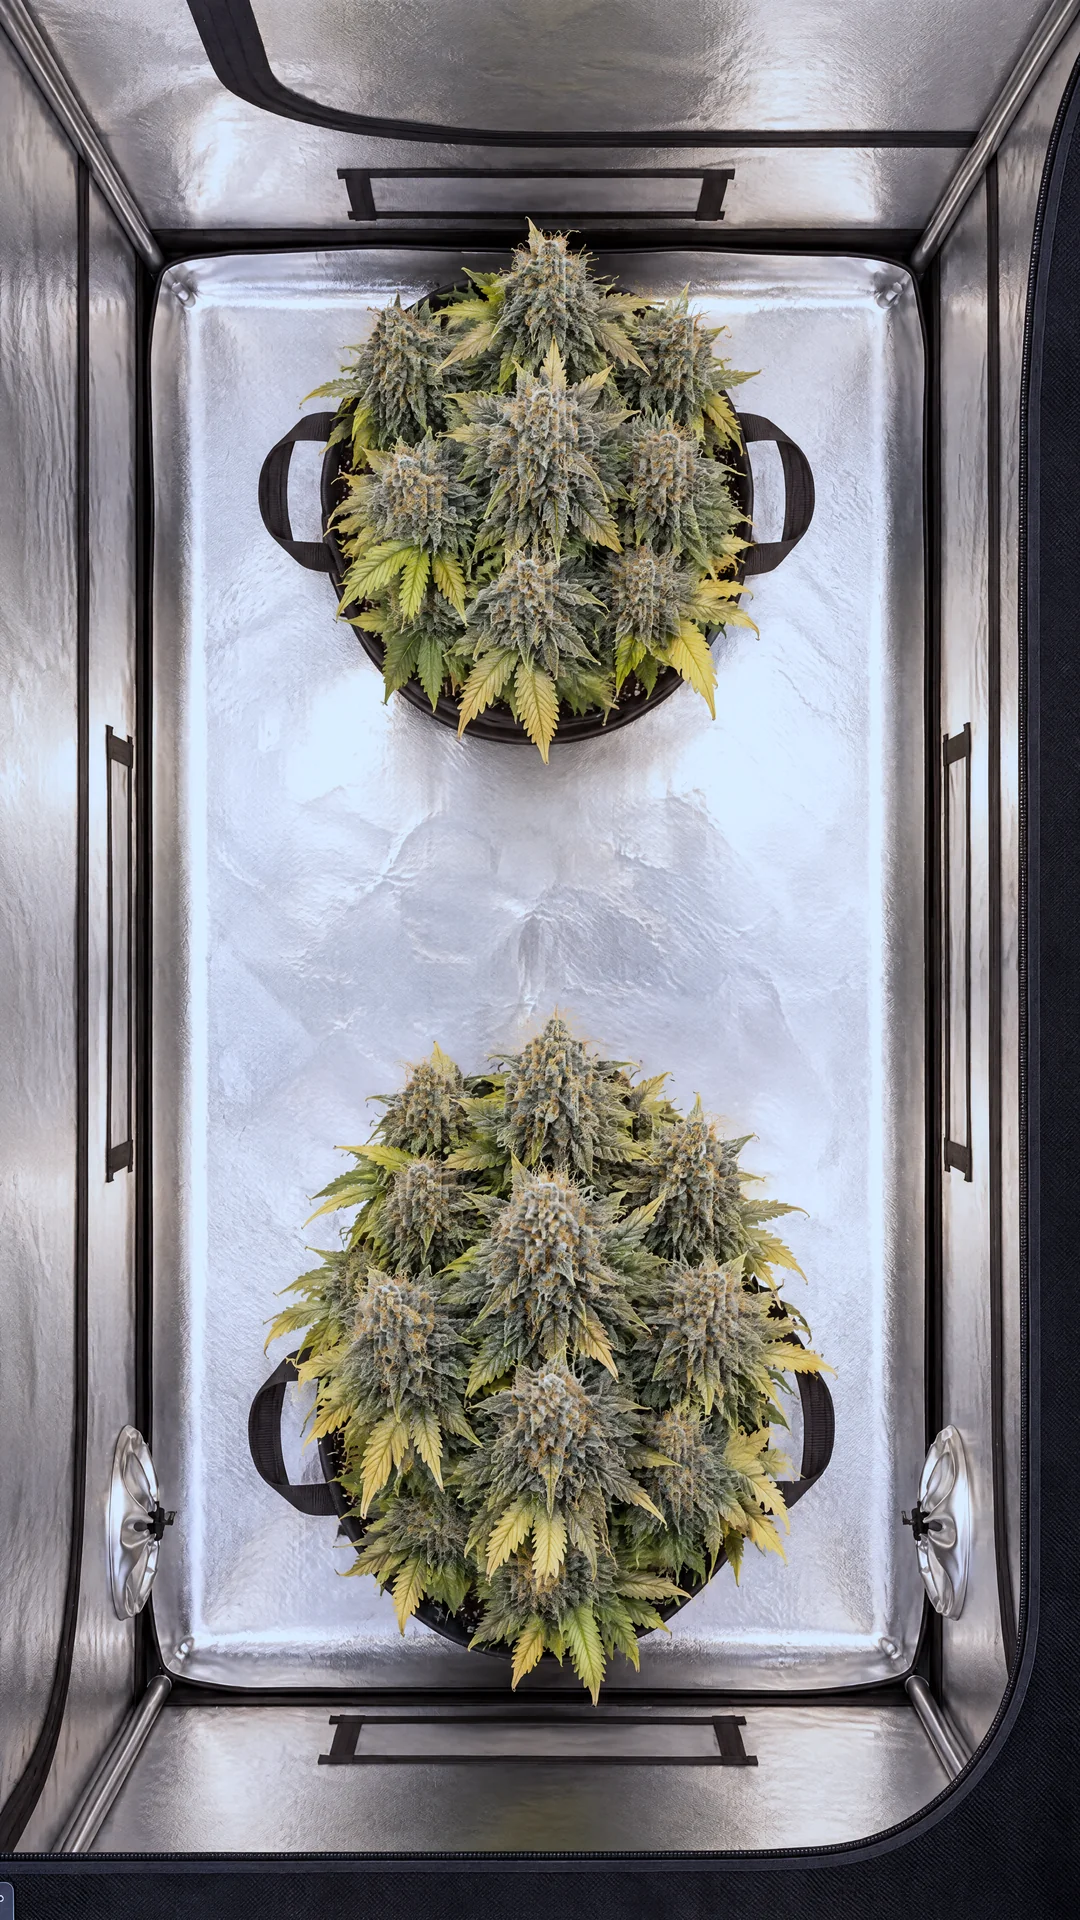
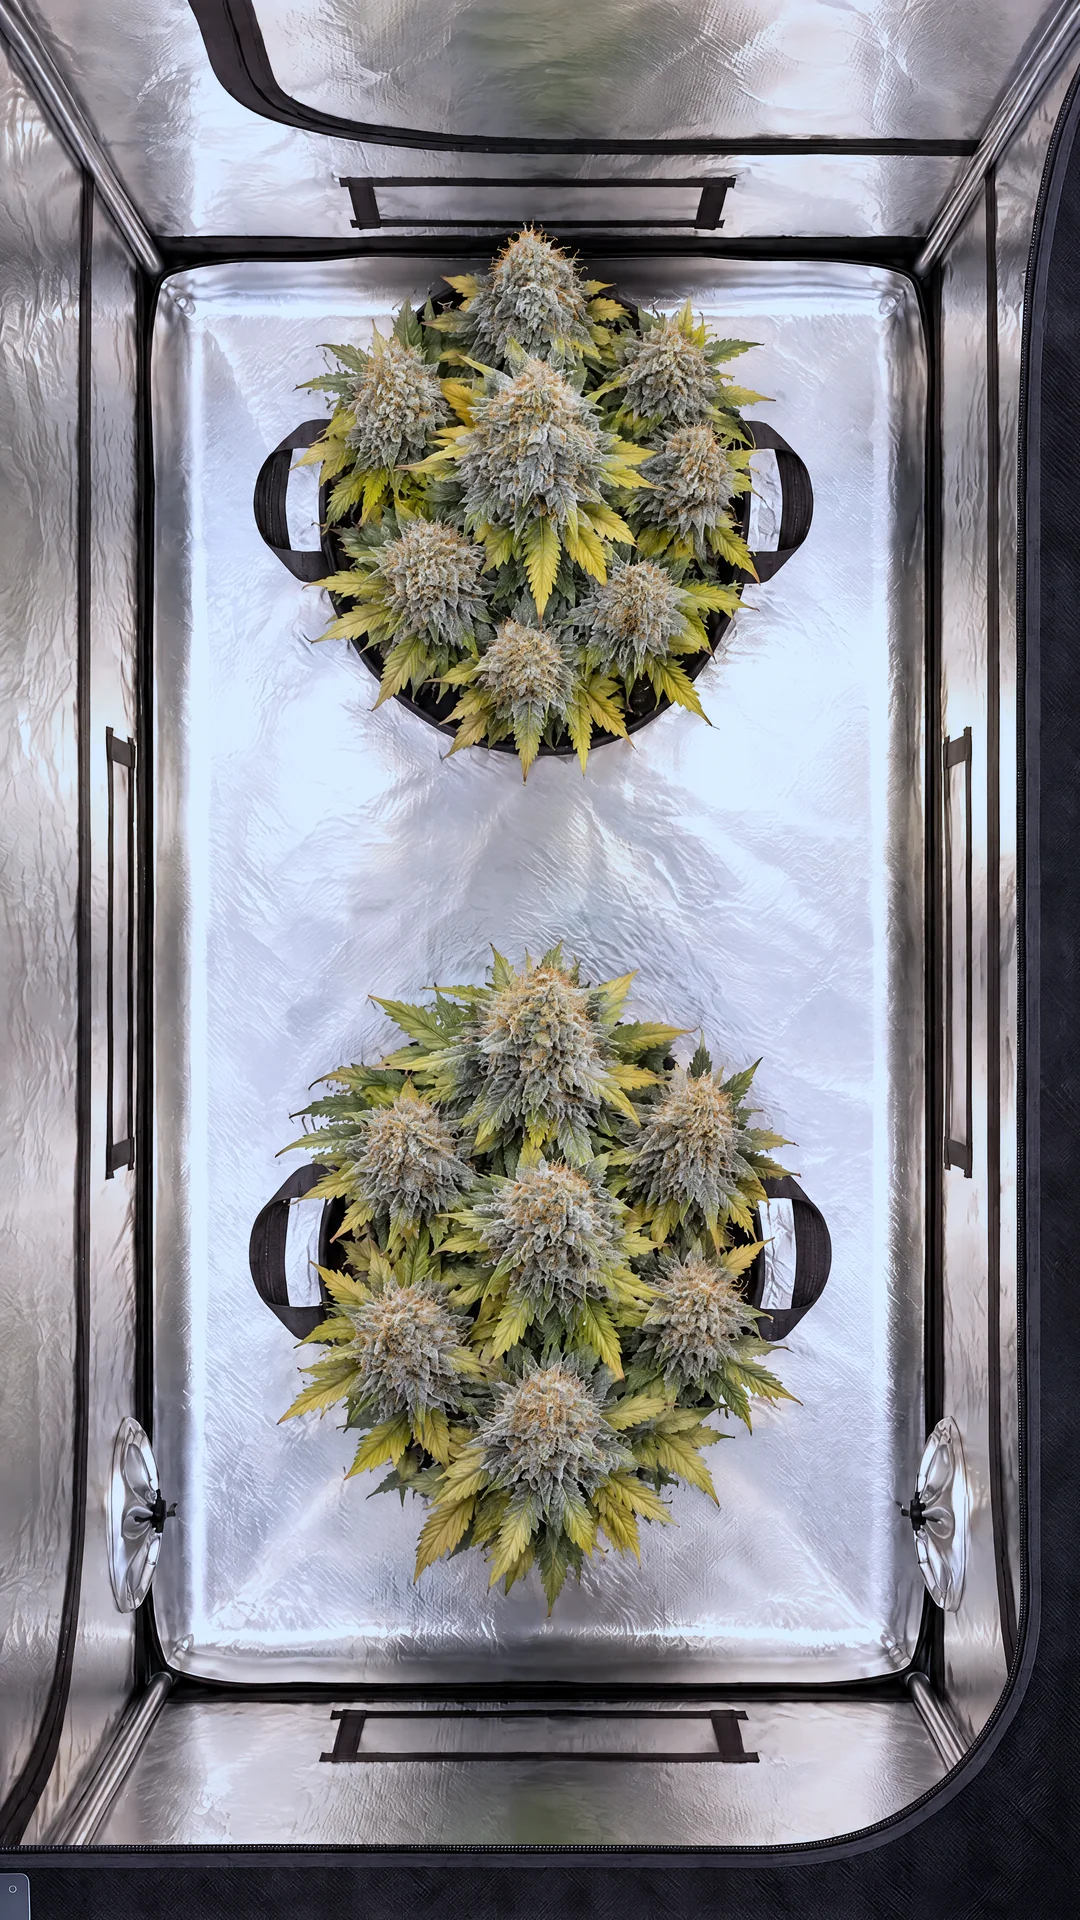
Carpa nítida: efectos de halo y vapor apagados y sin zoom de respiración; cosecha regenerada desde floración para que sean las mismas plantas

diff --git a/app/src/components/TentView.tsx b/app/src/components/TentView.tsx
@@ -199,7 +199,9 @@ export default function TentView() {
           <div className={`tinte ${scene === 'calor' ? 'tinte-calor' : 'tinte-frio'}`}
             style={{ opacity: view === 'front' && (scene === 'frio' || scene === 'calor') ? 1 : 0 }} />
           {/* vida en la carpa: vapor hacia el filtro, aspas del ventilador y halo de la LED */}
-          <SceneFx active={!preview && !intro && view === 'front'} fan={c.fan} exhaust={c.exhaust} light={c.light} state={scene} humidity={c.readings.hr ?? null} />
+          {/* efectos apagados (2026-09-21): el halo y el vapor dibujados encima de las fotos
+              reales les metían neblina; la foto ya trae su propio bloom de la LED */}
+          <SceneFx active={false} fan={c.fan} exhaust={c.exhaust} light={c.light} state={scene} humidity={c.readings.hr ?? null} />
         </div>
         <div className="absolute top-0 left-0 right-0 h-28 pointer-events-none" style={{ background: 'linear-gradient(180deg,rgba(4,7,10,.7),transparent)' }} />
         <div className="absolute bottom-0 left-0 right-0 h-36 pointer-events-none" style={{ background: 'linear-gradient(0deg,rgba(4,7,10,.82),rgba(4,7,10,.28) 60%,transparent)' }} />
@@ -390,7 +392,7 @@ export default function TentView() {
       {intro && <Intro onDone={() => setIntro(false)} />}
 
       <style>{`
-        .escena-viva{animation:respira 16s ease-in-out infinite alternate;transform-origin:50% 62%;will-change:transform}
+        .escena-viva{transform:none}
         .escena-viva.quieta{animation-play-state:paused}
         .tinte{position:absolute;inset:0;pointer-events:none;mix-blend-mode:multiply;transition:opacity .8s ease;clip-path:polygon(5% 5.5%,69% 5.5%,76% 7.5%,80.5% 12%,80.5% 93.5%,5% 93.5%)}
         .tinte-frio{background:radial-gradient(ellipse at 50% 38%,rgba(150,195,255,.95),rgba(90,140,255,.85) 75%)}
